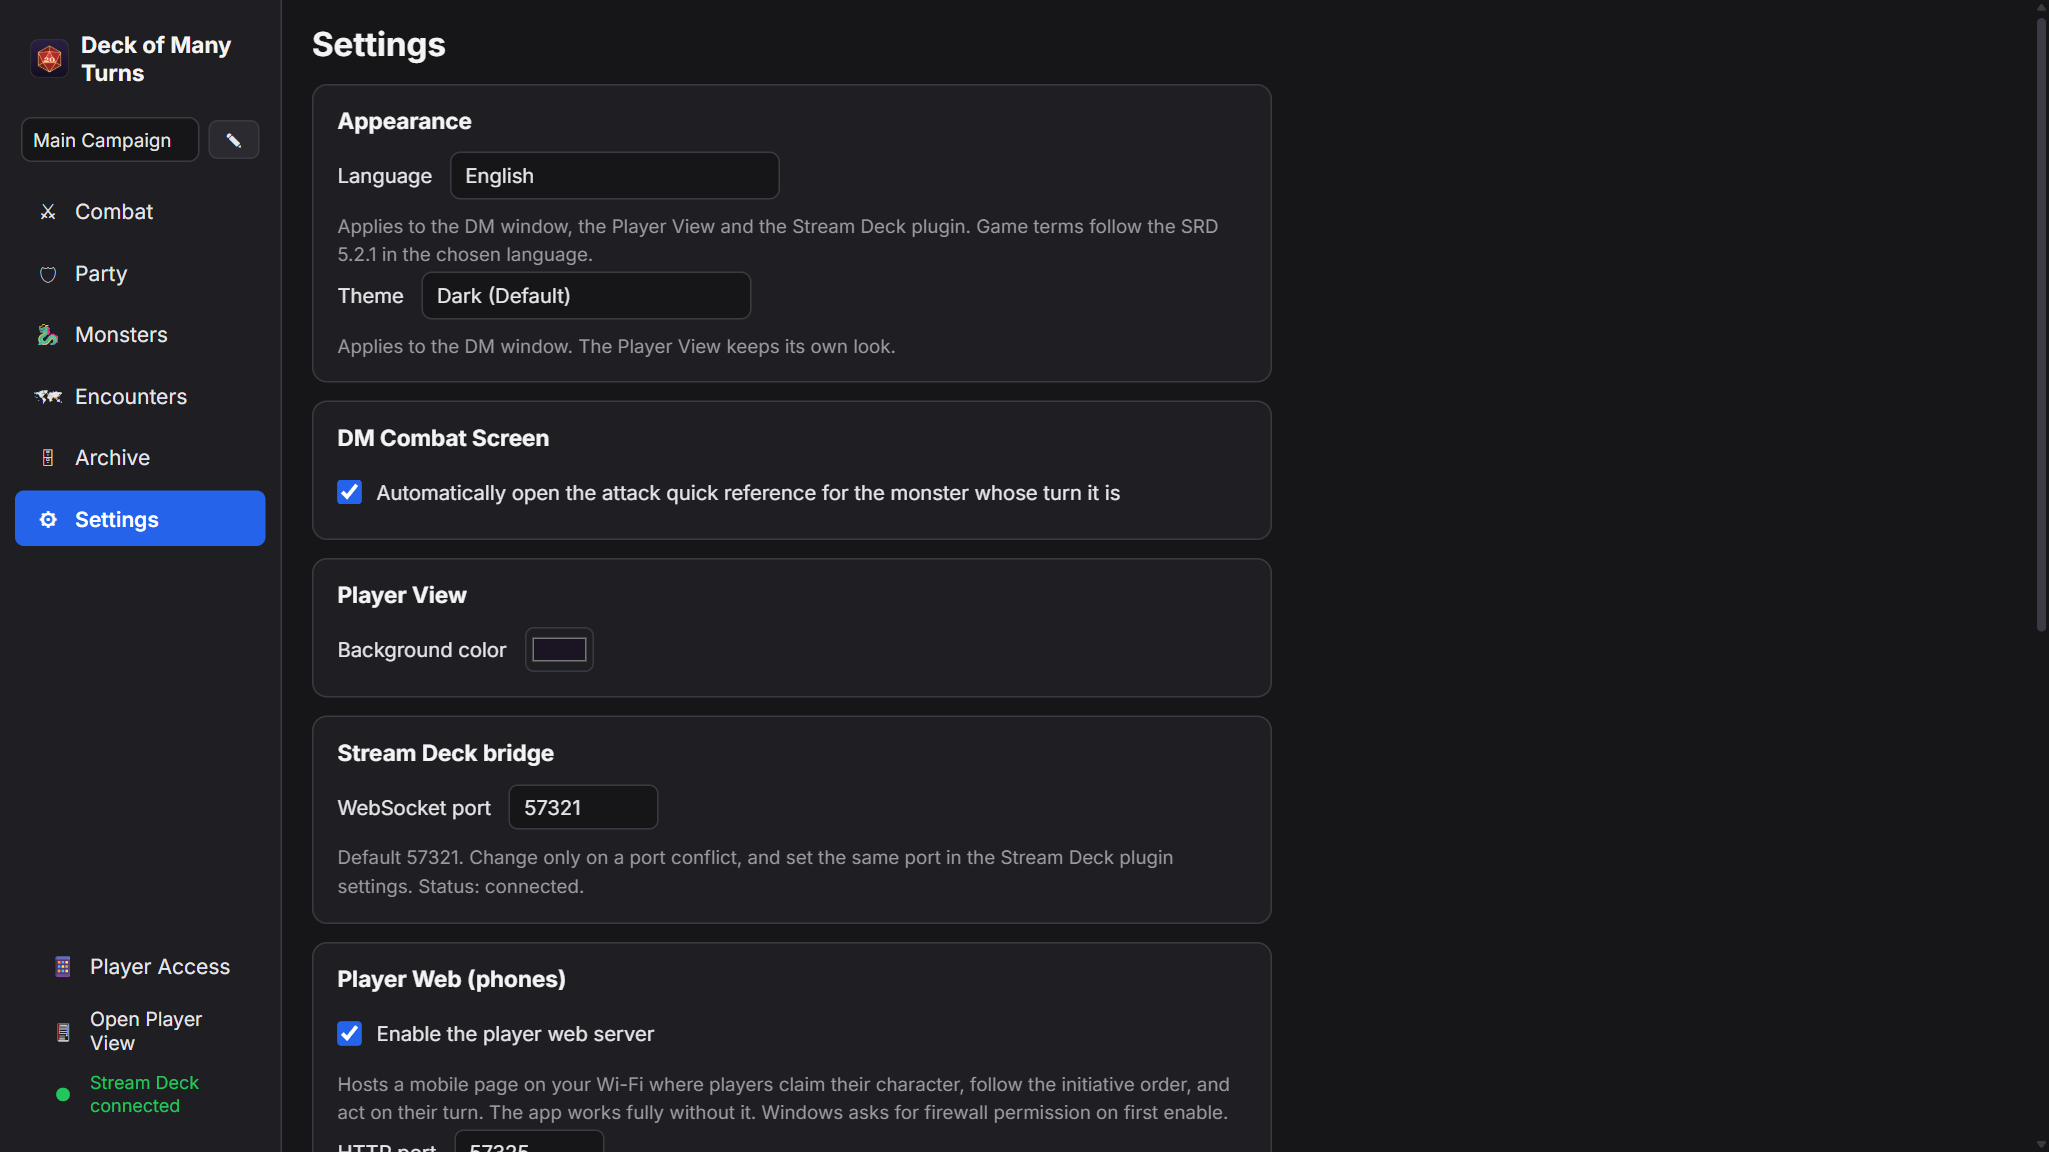
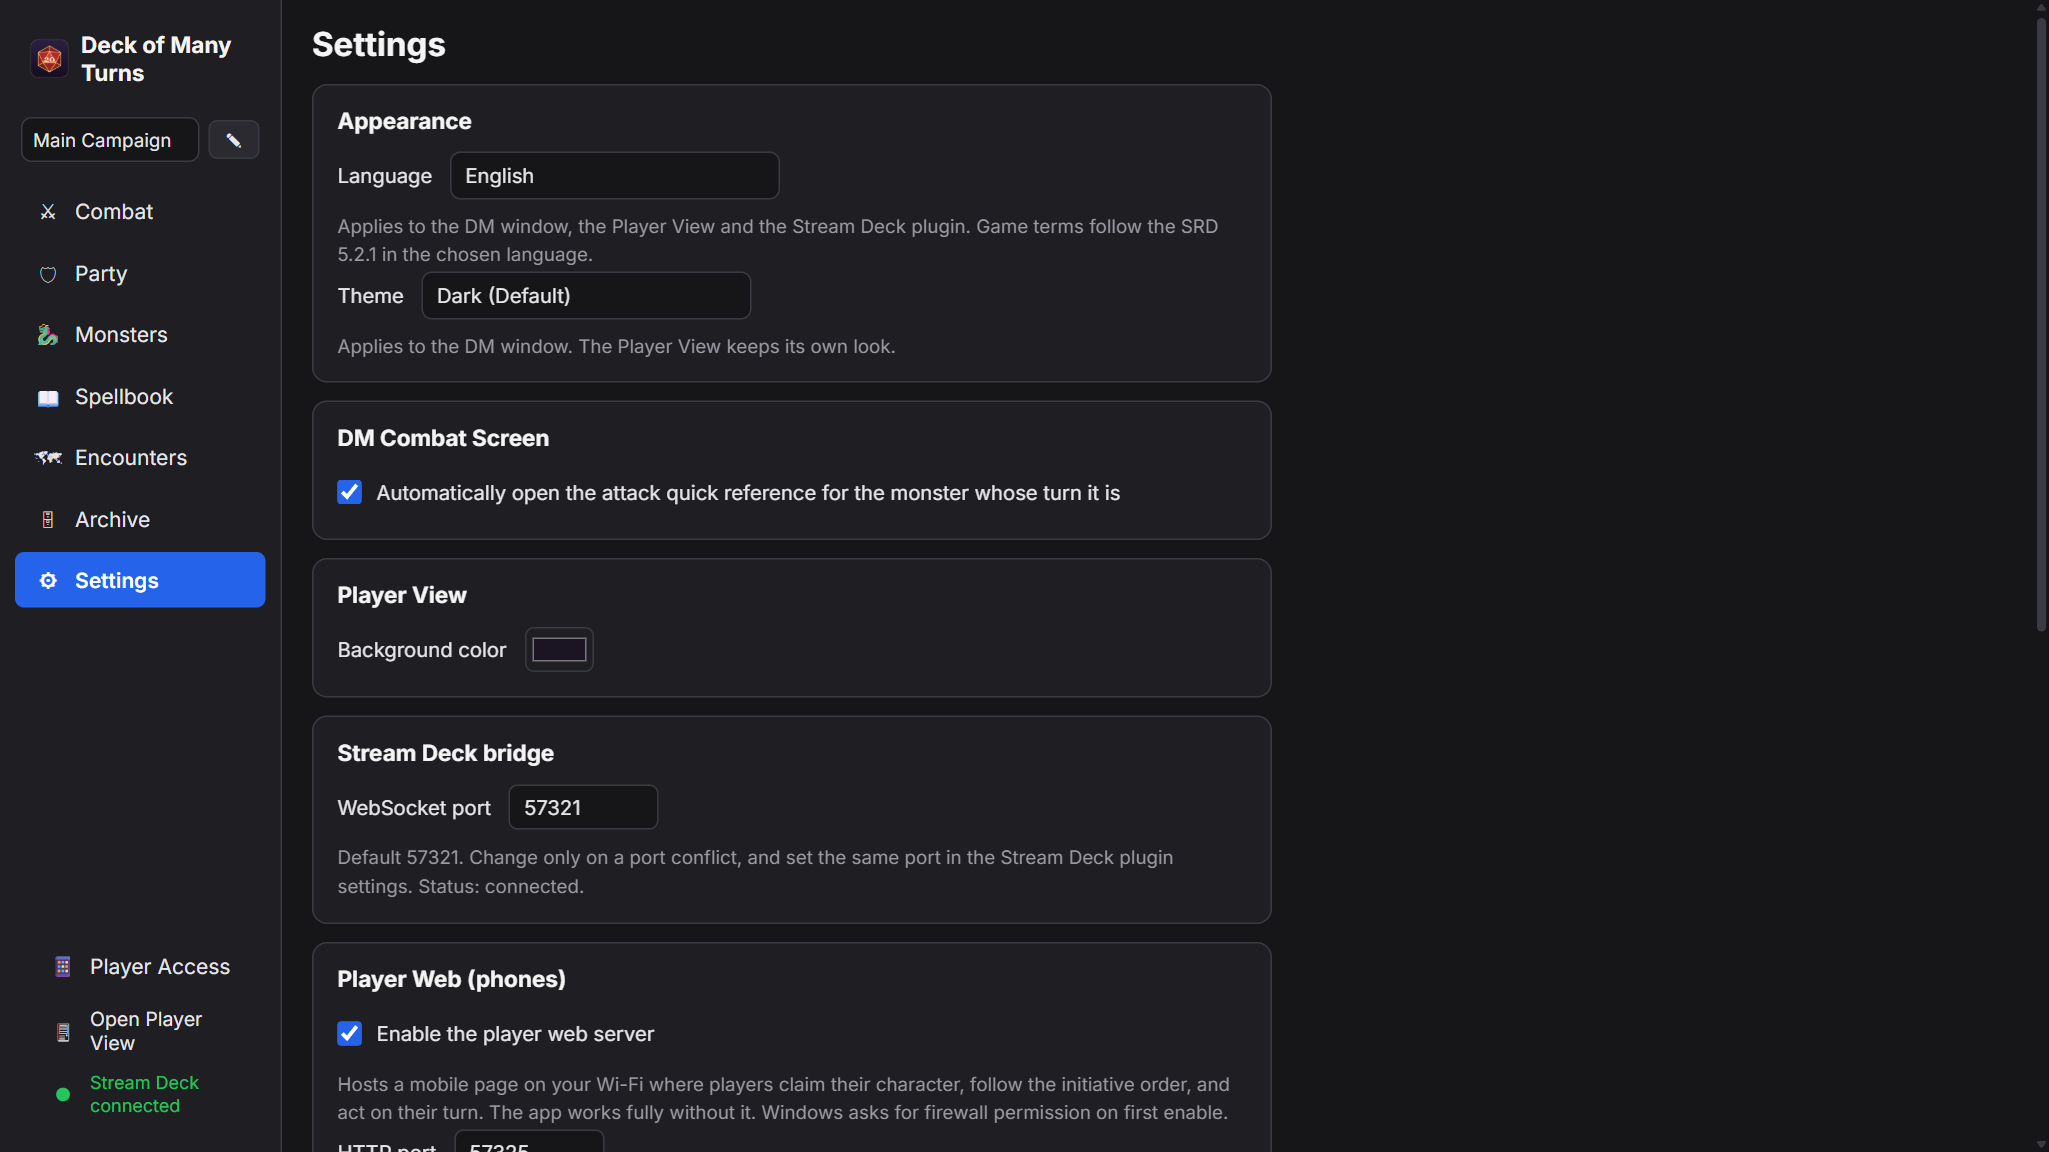
Release 3.3.0: spellcasting — version bump, README section, changelog, fresh screenshots

Changed region(s): [[0.0, 0.3438, 0.1562, 0.5312]]

diff --git a/README.md b/README.md
@@ -23,7 +23,7 @@ already in progress.
 ![React](https://img.shields.io/badge/React-19-61DAFB?logo=react&logoColor=black)
 ![TypeScript](https://img.shields.io/badge/TypeScript-5.6-3178C6?logo=typescript&logoColor=white)
 ![Stream Deck](https://img.shields.io/badge/Stream%20Deck-SDK%20v2-000000?logo=elgato&logoColor=white)
-![Release](https://img.shields.io/badge/release-v3.2.0-success)
+![Release](https://img.shields.io/badge/release-v3.3.0-success)
 
 </div>
 
@@ -53,7 +53,7 @@ name, and the combat log keeps the story on the right.</i>
 - [Live demo](#live-demo)
 - [Install](#install)
 - [Using the app](#using-the-app)
-  - [Campaigns](#campaigns) · [Party](#party) · [Monsters](#monsters) · [Encounters](#encounters) · [Combat](#combat) · [Player View](#player-view--and-the-chroma-key-setup)
+  - [Campaigns](#campaigns) · [Party](#party) · [Monsters](#monsters) · [Spellbook](#spellbook--spellcasting) · [Encounters](#encounters) · [Combat](#combat) · [Player View](#player-view--and-the-chroma-key-setup)
   - [Combat log & archive](#combat-log--archive)
   - [Themes](#themes) · [Language](#language)
 - [Player phone companion](#player-phone-companion)
@@ -74,6 +74,7 @@ name, and the combat log keeps the story on the right.</i>
 | --- | --- |
 | 🗂 **Campaigns** | Run several tables from one install: party, encounters, combat and archive are scoped per campaign and [hot-swap from the sidebar](#campaigns) — even mid-combat. The monster library and settings stay shared. |
 | 🧙 **Party & monster libraries** | PCs with HP/AC/initiative and their own attacks; 331 SRD 5.2.1 monsters importable in one click, with ability scores and fully structured attacks. Add your own too. |
+| 📖 **Spellbook & spellcasting** | [All 339 SRD 5.2.1 spells](#spellbook--spellcasting) with full rules text in English *and* German. Spells attach to characters as castable actions; per-level spell slots with an upcast prompt, healing rolls, and Concentration tracking with automatic CON-save prompts. |
 | 📋 **Encounter templates** | Reusable monster + quantity sets (4× Goblin Warrior, 1× Bugbear). Start combat straight from a card. |
 | ⚔ **Combat engine** | Initiative rolling (all, or monsters-only), drag-to-settle ties, live HP and conditions in an aligned table, mid-combat monster adds, attack resolution vs AC with crits and save-for-half. |
 | 📺 **Player View** | Display-only second-monitor window. Monsters show no numbers — just a progressive "bloodied" reddening. Auto-fits any actor count. **Styled for chroma keying.** |
@@ -107,7 +108,7 @@ for anyone integrating their own hardware or overlays.
 
 Grab both files from the [**latest release**](../../releases/latest):
 
-1. **App** — run `Deck of Many Turns Setup 3.2.0.exe` (NSIS installer, choose your own directory).
+1. **App** — run `Deck of Many Turns Setup 3.3.0.exe` (NSIS installer, choose your own directory).
 2. **Stream Deck plugin** — double-click `com.dmtools.dnd-combat-tracker.streamDeckPlugin`;
    the Stream Deck app installs it and registers the bundled picker profiles.
 3. Start the app. The plugin connects within a few seconds — the DM window's sidebar
@@ -182,6 +183,40 @@ annotated with its size in **battle-grid squares** for play on a 1-inch tabletop
 ![The monster library with a stat block expanded, showing its ability table, structured attacks and save DCs](docs/images/monsters.png)
 
 </div>
+
+### Spellbook & spellcasting
+
+![The Spellbook: a searchable table of SRD spells with Fireball expanded, showing its header line, a compact roll summary and the full rules text](docs/images/spellbook.png)
+
+The **📖 Spellbook** tab holds a global spell library, shared across campaigns like
+the monster library: **Import SRD Spells** loads all 339 SRD 5.2.1 spells — full rules
+text in English *and* German — and homebrew spells sit alongside them in the same
+editor. Each spell carries a minimal structured layer (spell attack, saving throw
+with its damage-on-success rule, damage or healing dice, linear upcast), and
+**everything else stays readable rules text** — visible to the DM and the players at
+a glance, played out at the table instead of simulated.
+
+- **Spells become character actions.** "✨ From Spellbook" in the Party editor (and on
+  the phone) attaches a spell to a PC, asking for the caster's spell attack bonus or
+  save DC. The copy is **editable like any attack** — that is also how cantrips scale:
+  bump 1d10 to 2d10 when you hit level 5. No class or level rules, on purpose.
+- **Spell slots** are a simple per-level row on the PC, straight off the character
+  sheet. Casting asks **which slot to use** — each level shows how many are left, with
+  the upcast bonus previewed — then spends it automatically. Cantrips cast free, a
+  **Long Rest** (Party screen or phone) restores everything.
+- **Casting rolls like attacking.** Attack spells use the normal attack flow (upcast
+  dice join the damage roll), save spells go through the DM's adjudication modal —
+  and spells like *Acid Splash* correctly deal **no** damage on a success, not half.
+  Healing spells roll and apply as healing. Utility spells just spend the slot and
+  land in the log: *"Aria casts Misty Step (level 2)"*.
+- **Concentration is tracked.** Casting a concentration spell tags the character —
+  a chip on the combat row, the phone and the Player View. Taking damage prompts the
+  claiming phone for the Constitution save (DC = half the damage, minimum 10); a
+  failed save drops the spell. Going down breaks it outright, and the DM can always
+  clear the chip by hand — also straight from the Stream Deck's condition flow.
+- The DM can run the whole flow from the attack modal too, for players without a
+  phone. The **Stream Deck deliberately gets no spell keys** — slots and upcasts
+  want a richer prompt than hardware keys offer.
 
 ### Encounters
 
@@ -398,6 +433,12 @@ accounts.
 - **Players build their own attacks** on the phone with structured pickers — a die
   selector, a +/− count stepper and a damage-type dropdown — saved straight onto the
   PC record, editable by the DM in the Party screen.
+- **Spellcasting on glass** — attach spells from the 📖 spellbook reference (all
+  imported spells with full rules text, searchable at the table), cast with the slot
+  prompt and upcast preview, roll healing digitally or by hand, and answer
+  **Concentration saves** the moment your character takes damage — the phone pops the
+  CON check with a what-to-roll hint. Between fights the home screen is a character
+  card: stats, notes, spell-slot pips and a Long Rest button.
 - **Turn gating, enforced server-side** — by default players can only act on their
   own turn (viewing is always live). A Settings toggle relaxes it so self-targeted
   damage/heal works anytime; everything else stays turn-locked. No chaos.
@@ -455,6 +496,10 @@ flowchart LR
     C -->|"toggle another condition<br/>for the whole selection"| C
     C -->|"✓ Done"| X["Back to your profile"]
 ```
+
+When exactly one actor is selected and that actor is concentrating on a spell, the
+grid gains one extra key — **Ⓒ with the spell's name** — that ends the Concentration
+(and disappears with it). Groups never show it.
 
 #### Monster Attack flow
 
@@ -657,7 +702,7 @@ npm install
 npm run dev        # live-reload dev session
 npm run dev:mobile # (second terminal) rebuild the player web bundle on change
 npm run build      # compile main/preload/renderer + player web bundle to out/
-npm run dist       # → release/Deck of Many Turns Setup 3.2.0.exe (NSIS)
+npm run dist       # → release/Deck of Many Turns Setup 3.3.0.exe (NSIS)
 ```
 
 The player web page is served as plain static files from `out/mobile` in dev and
@@ -827,9 +872,9 @@ Project code is MIT-licensed (see `app/package.json`).
   change and restored on launch.
 - **Location:** `%APPDATA%/deck-of-many-turns/data/` — one JSON file per store, loaded
   into id-indexed maps in the main process and written back atomically (temp file +
-  rename) on every change. Global stores (monsters, settings, the campaign index) sit
-  at the root; each campaign keeps its own PCs, templates, active combat, archive and
-  player claims under `data/campaigns/<id>/`. First launch after the campaign update
+  rename) on every change. Global stores (monsters, spells, settings, the campaign
+  index) sit at the root; each campaign keeps its own PCs, templates, active combat,
+  archive and player claims under `data/campaigns/<id>/`. First launch after the campaign update
   moves existing data into a "Main Campaign" folder; first launch after the app rename
   copies data from the old `%APPDATA%/dnd-combat-tracker` location (the old folder
   stays as a backup).

diff --git a/CHANGELOG.md b/CHANGELOG.md
@@ -7,6 +7,54 @@ to its GitHub release, where the installer and the packed plugin are attached.
 
 ## [Unreleased]
 
+## [3.3.0] — 2026-08-19
+
+### Added
+
+- **Spellbook** — a global spell library beside the monsters: **Import SRD
+  Spells** loads all 339 SRD 5.2.1 spells with full rules text in English and
+  German; homebrew spells live in the same editor. A minimal structured layer
+  (spell attack, save with its damage-on-success rule, damage/healing dice,
+  linear upcast) covers what gets rolled — everything else stays readable
+  rules text.
+- **Spells as character actions** — attach a spell to a PC from the Party
+  editor or the phone ("✨ From Spellbook"), supplying the caster's attack
+  bonus or save DC. The copy is editable like any attack, which is also how
+  cantrip dice scale as characters level.
+- **Spell slots & casting** — per-level slot rows on the PC (straight off the
+  character sheet); casting asks which slot to spend, previews the upcast
+  bonus and decrements automatically. Cantrips cast free; Long Rest (Party
+  screen or phone) restores everything. Healing spells roll and apply as
+  healing, digital or manual with a what-to-roll hint; utility spells spend
+  the slot and land in the log. The DM attack modal runs the same flow for
+  players without a phone; slots show as pips on Party rows and the combat
+  expander.
+- **Concentration tracking** — casting a concentration spell tags the
+  character (condition-style chip on the DM combat row with ✕, phone
+  initiative rows and the Player View). Damage prompts the claiming phone
+  with the Constitution save (DC = half the damage, min 10) — rolled
+  digitally or typed with a hint; a failed save or going down breaks the
+  spell. The Stream Deck's condition grid gains a one-shot **Ⓒ** key to end a
+  single selected actor's Concentration.
+- **Phone spellbook & character card** — a searchable reference of every
+  imported spell with full rules text, and an out-of-combat home screen
+  showing stats, notes, slot pips, Long Rest and quick navigation.
+- Bridge protocol: combatants carry a localized `concentration` label; new
+  `clearConcentration` command.
+
+### Changed
+
+- Save-based actions can now deal **no** damage on a successful save (Acid
+  Splash and friends) instead of always half; every resolver and label
+  respects the rule. Existing monster data keeps its half-on-save behavior.
+- The phone's Spellbook and Past-combats links are proper outline buttons.
+
+### Fixed
+
+- Starting a second copy of the app while another held the player-web port
+  left it stuck behind an "Uncaught Exception: EADDRINUSE" dialog with no
+  window; the port conflict now surfaces only as the Settings status text.
+
 ## [3.2.0] — 2026-08-18
 
 ### Added
@@ -259,7 +307,8 @@ First packaged release.
   Picker profiles for MK.2 (5×3), XL (8×4) and 9×4 decks.
 - Four themes; local-only JSON storage.
 
-[Unreleased]: https://github.com/Lil-Dank/deck-of-many-turns/compare/v3.2.0...HEAD
+[Unreleased]: https://github.com/Lil-Dank/deck-of-many-turns/compare/v3.3.0...HEAD
+[3.3.0]: https://github.com/Lil-Dank/deck-of-many-turns/releases/tag/v3.3.0
 [3.2.0]: https://github.com/Lil-Dank/deck-of-many-turns/releases/tag/v3.2.0
 [3.1.2]: https://github.com/Lil-Dank/deck-of-many-turns/releases/tag/v3.1.2
 [3.1.1]: https://github.com/Lil-Dank/deck-of-many-turns/releases/tag/v3.1.1
